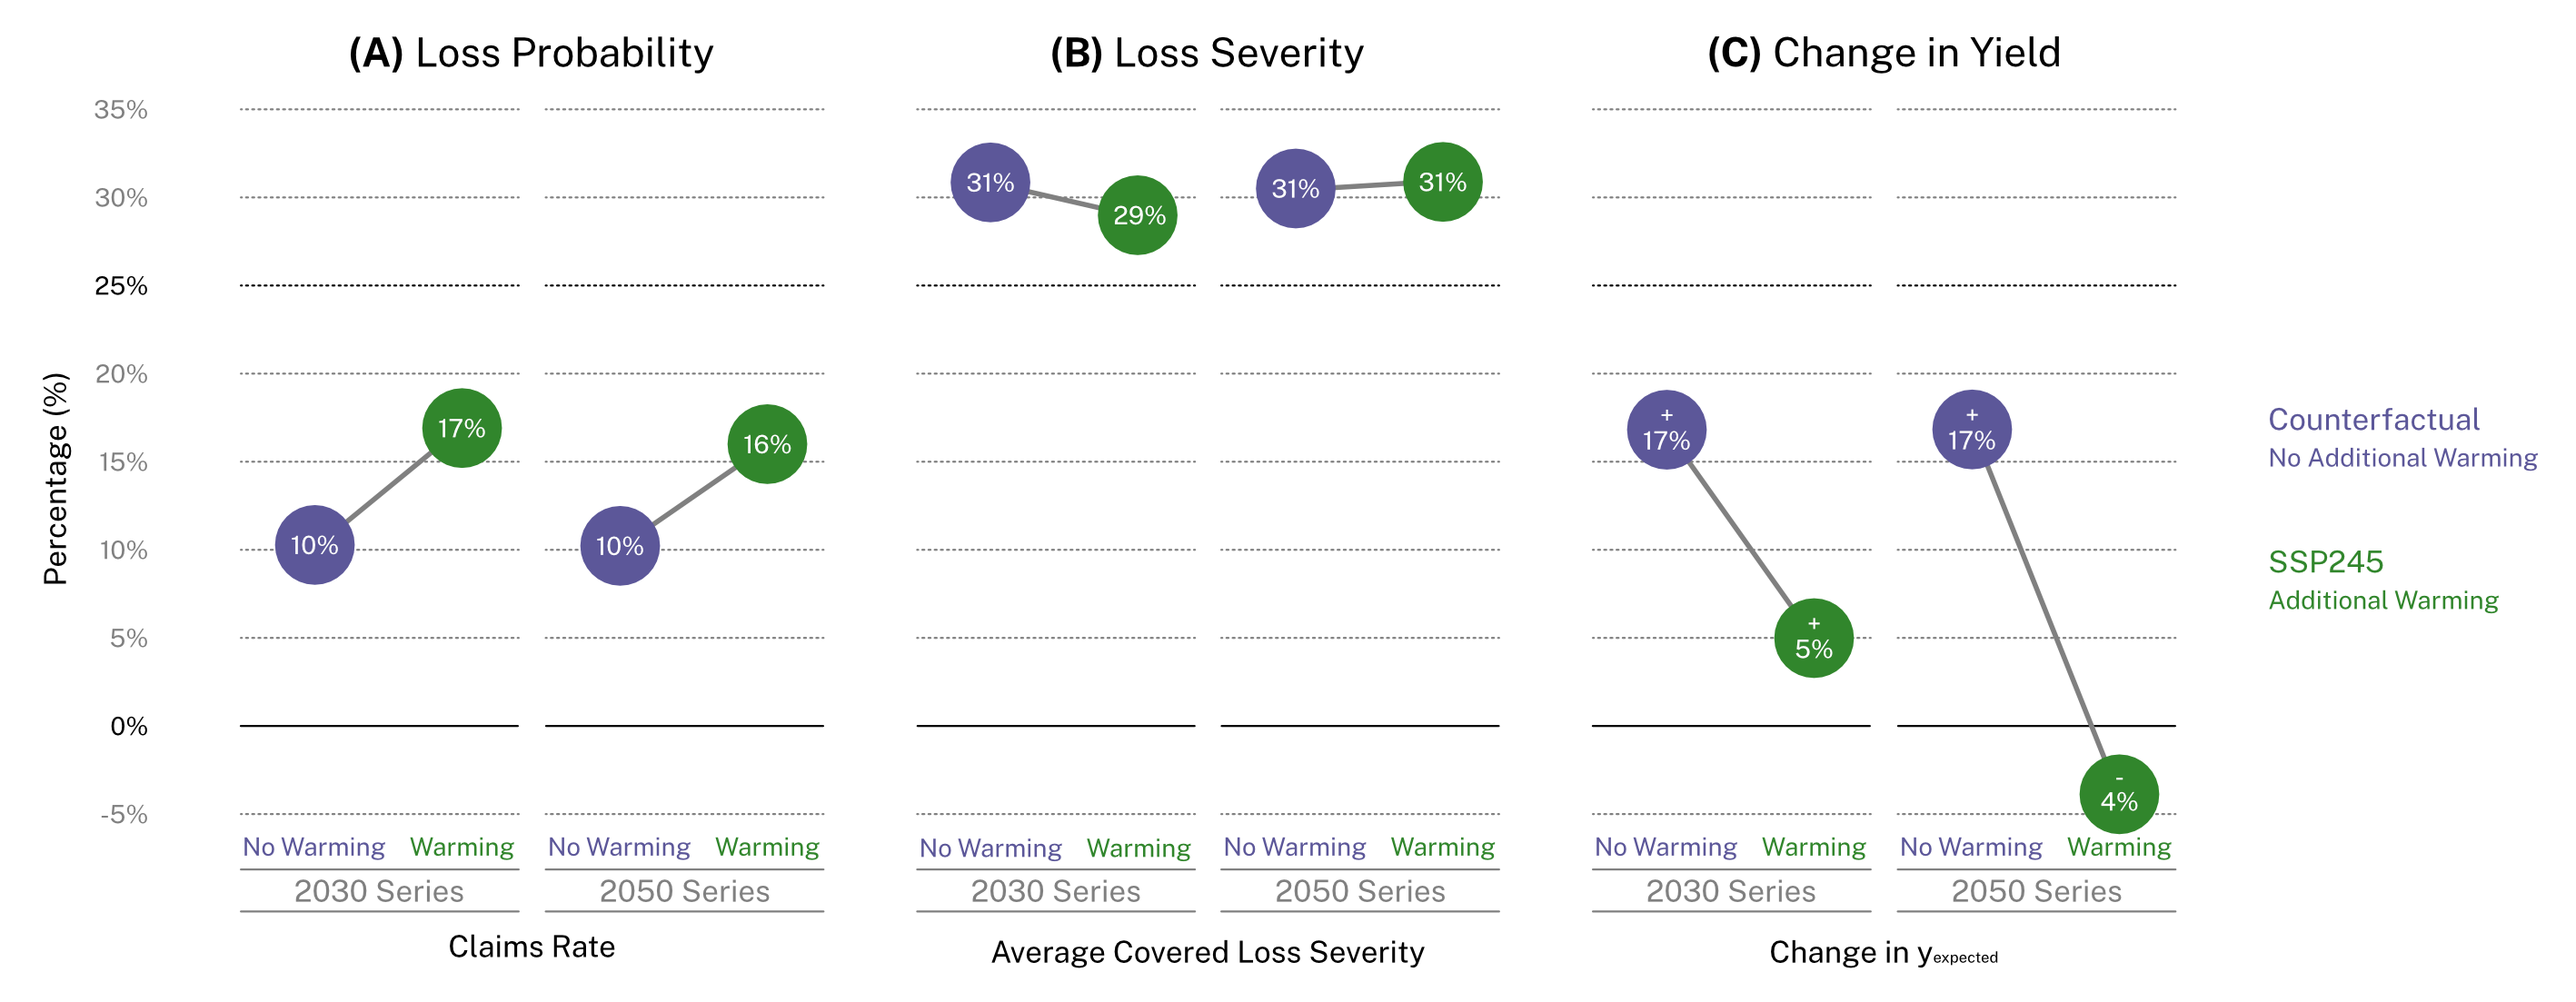
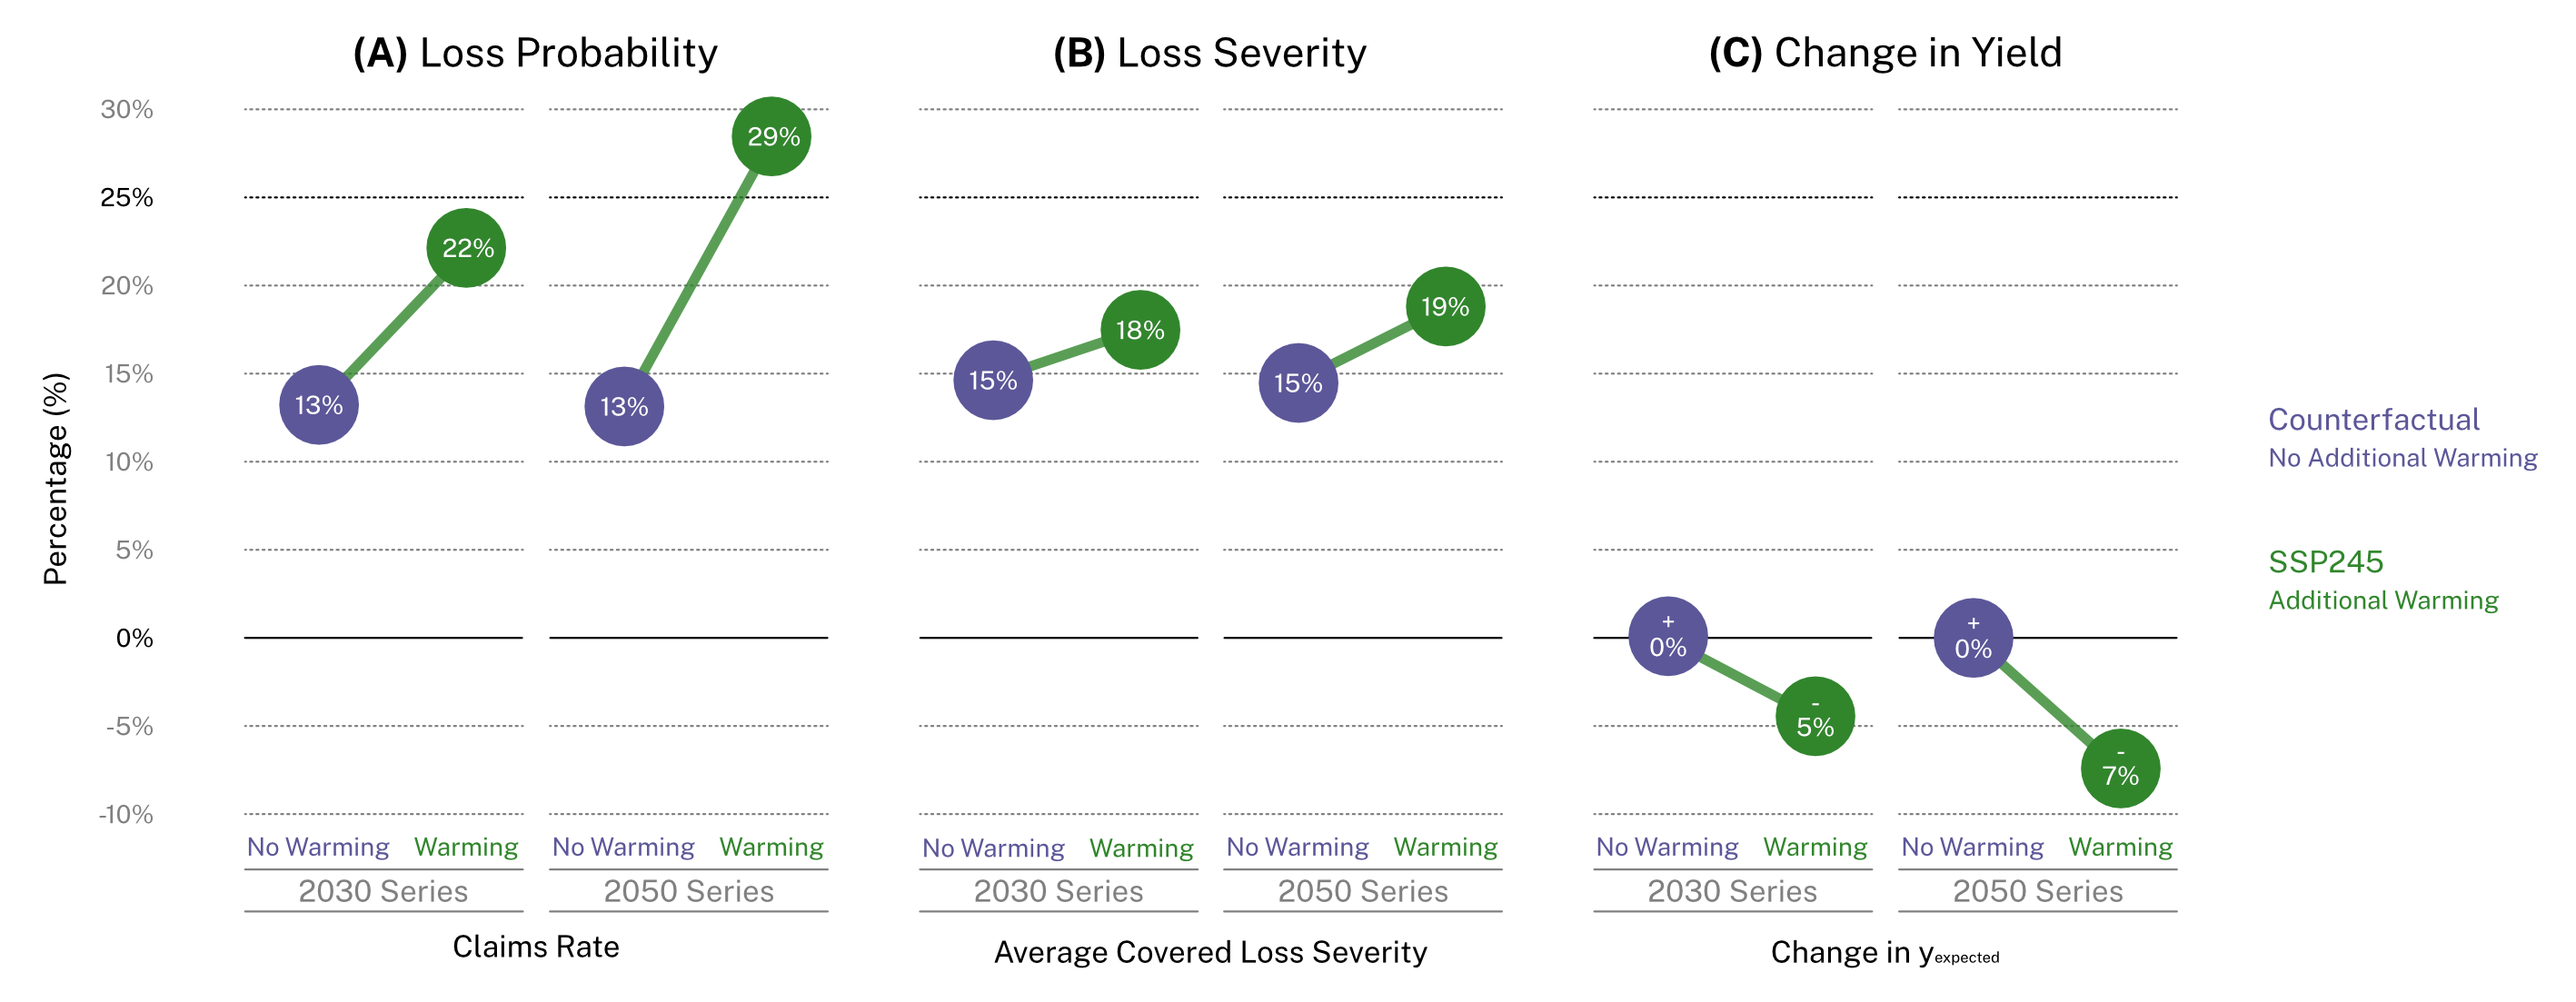
Update visualizations for direct sampling.

diff --git a/paper/viz/hist_viz.py b/paper/viz/hist_viz.py
@@ -291,7 +291,7 @@ class MainPresenter:
         Returns:
             The y coordinate for the value in pixels.
         """
-        return value / 20 * (SUB_CHART_HEIGHT - 20)
+        return value / 15 * (SUB_CHART_HEIGHT - 20)
 
     def _combine_dicts(self, a, b):
         """Combine two dictionaries with numeric values.
@@ -465,7 +465,7 @@ class MainPresenter:
         self._sketch.set_text_font(const.FONT_SRC, 11)
 
         is_catastrophic = self._target_threshold == '75% cov'
-        claim_threshold = -25 if is_catastrophic else -15
+        claim_threshold = -35 if is_catastrophic else -30
 
         for bucket, percent in self._get_body_fields(histogram):
             is_claim = bucket <= claim_threshold
@@ -641,7 +641,7 @@ class MainPresenter:
         self._sketch.set_text_align('right', 'center')
         self._sketch.set_text_font(const.FONT_SRC, 13)
 
-        for percent in range(0, 25, 5):
+        for percent in range(0, 20, 5):
             height = self._get_y(percent)
             self._sketch.draw_text(
                 5,
@@ -676,7 +676,7 @@ class MainPresenter:
         self._sketch.set_text_align('right', 'center')
         self._sketch.set_text_font(const.FONT_SRC, 13)
 
-        for percent in range(0, 25, 5):
+        for percent in range(0, 20, 5):
             height = self._get_y(percent)
             self._sketch.draw_text(
                 5,
@@ -718,7 +718,7 @@ class MainPresenter:
         self._sketch.set_text_font(const.FONT_SRC, 11)
 
         is_catastrophic = self._target_threshold == '75% cov'
-        max_val = 20 if is_catastrophic else 25
+        max_val = 35 if is_catastrophic else 30
 
         y = SUB_CHART_HEIGHT - self._get_y(20)
         start_x = self._get_x(-100) - 5
@@ -759,7 +759,7 @@ class MainPresenter:
         self._sketch.set_text_font(const.FONT_SRC, 11)
 
         is_catastrophic = self._target_threshold == '75% cov'
-        max_val = 20 if is_catastrophic else 25
+        max_val = 35 if is_catastrophic else 20
 
         y = self._get_y(20)
         start_x = self._get_x(-100)
